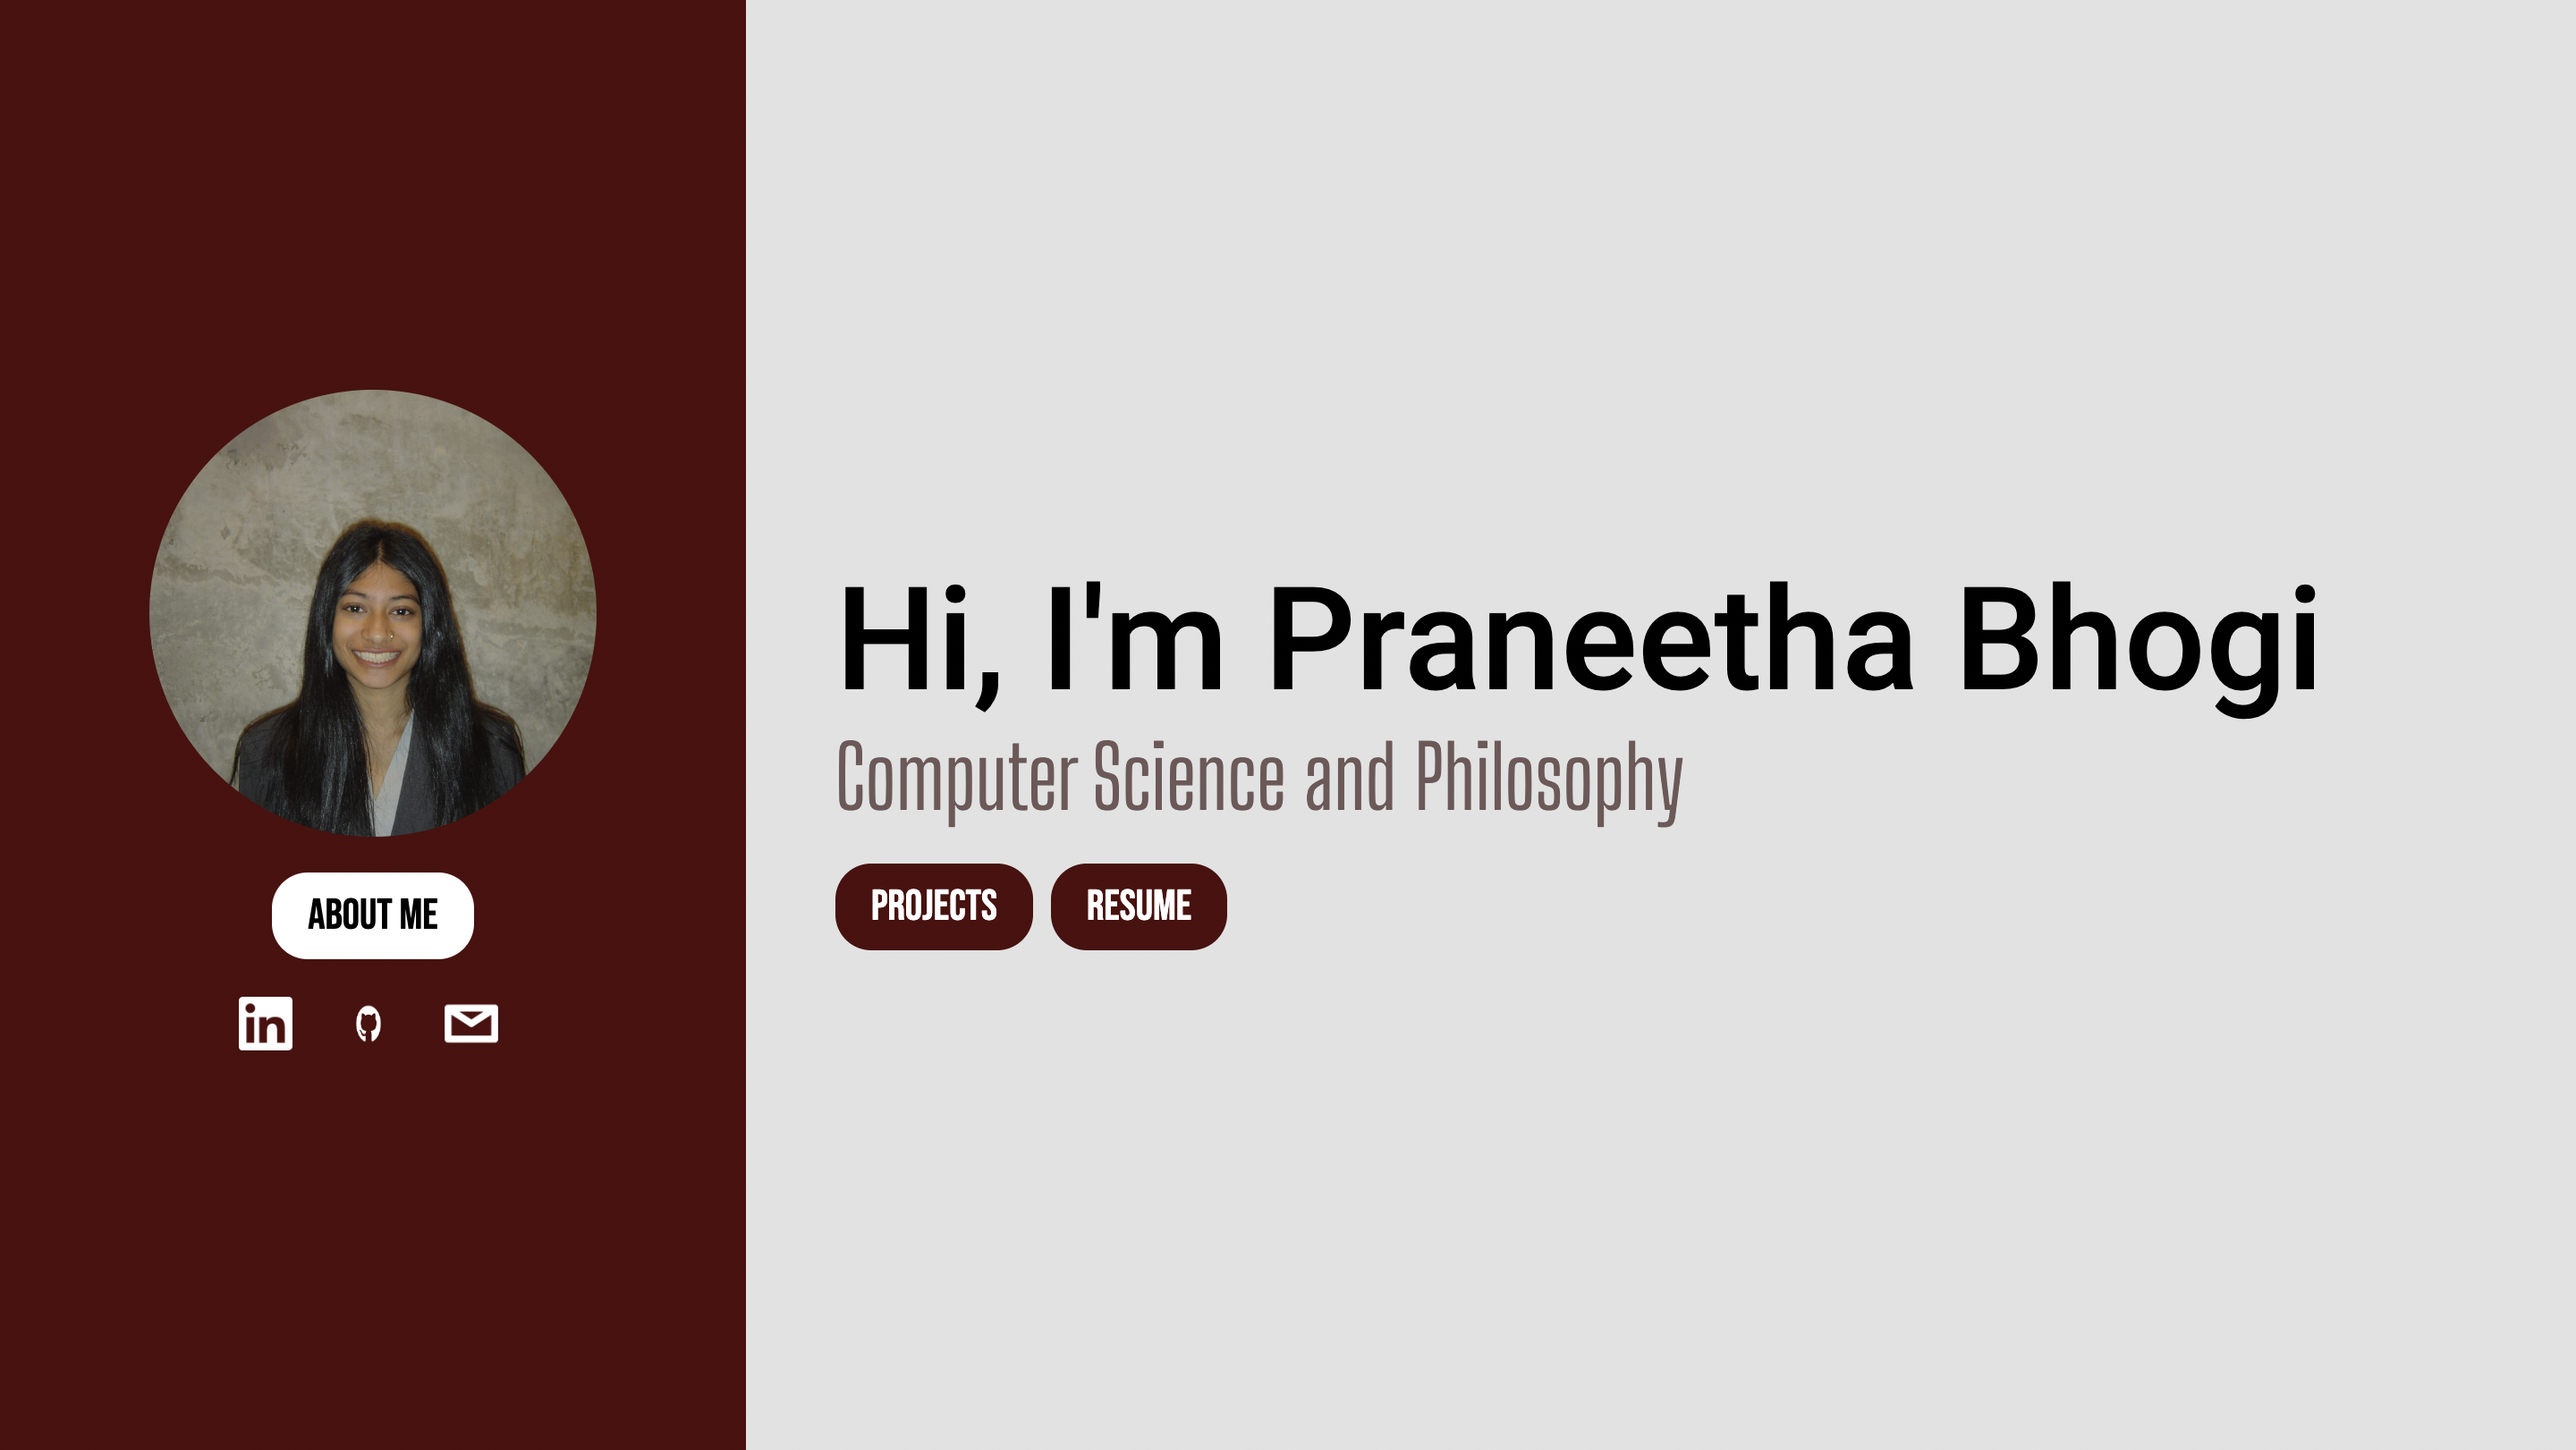
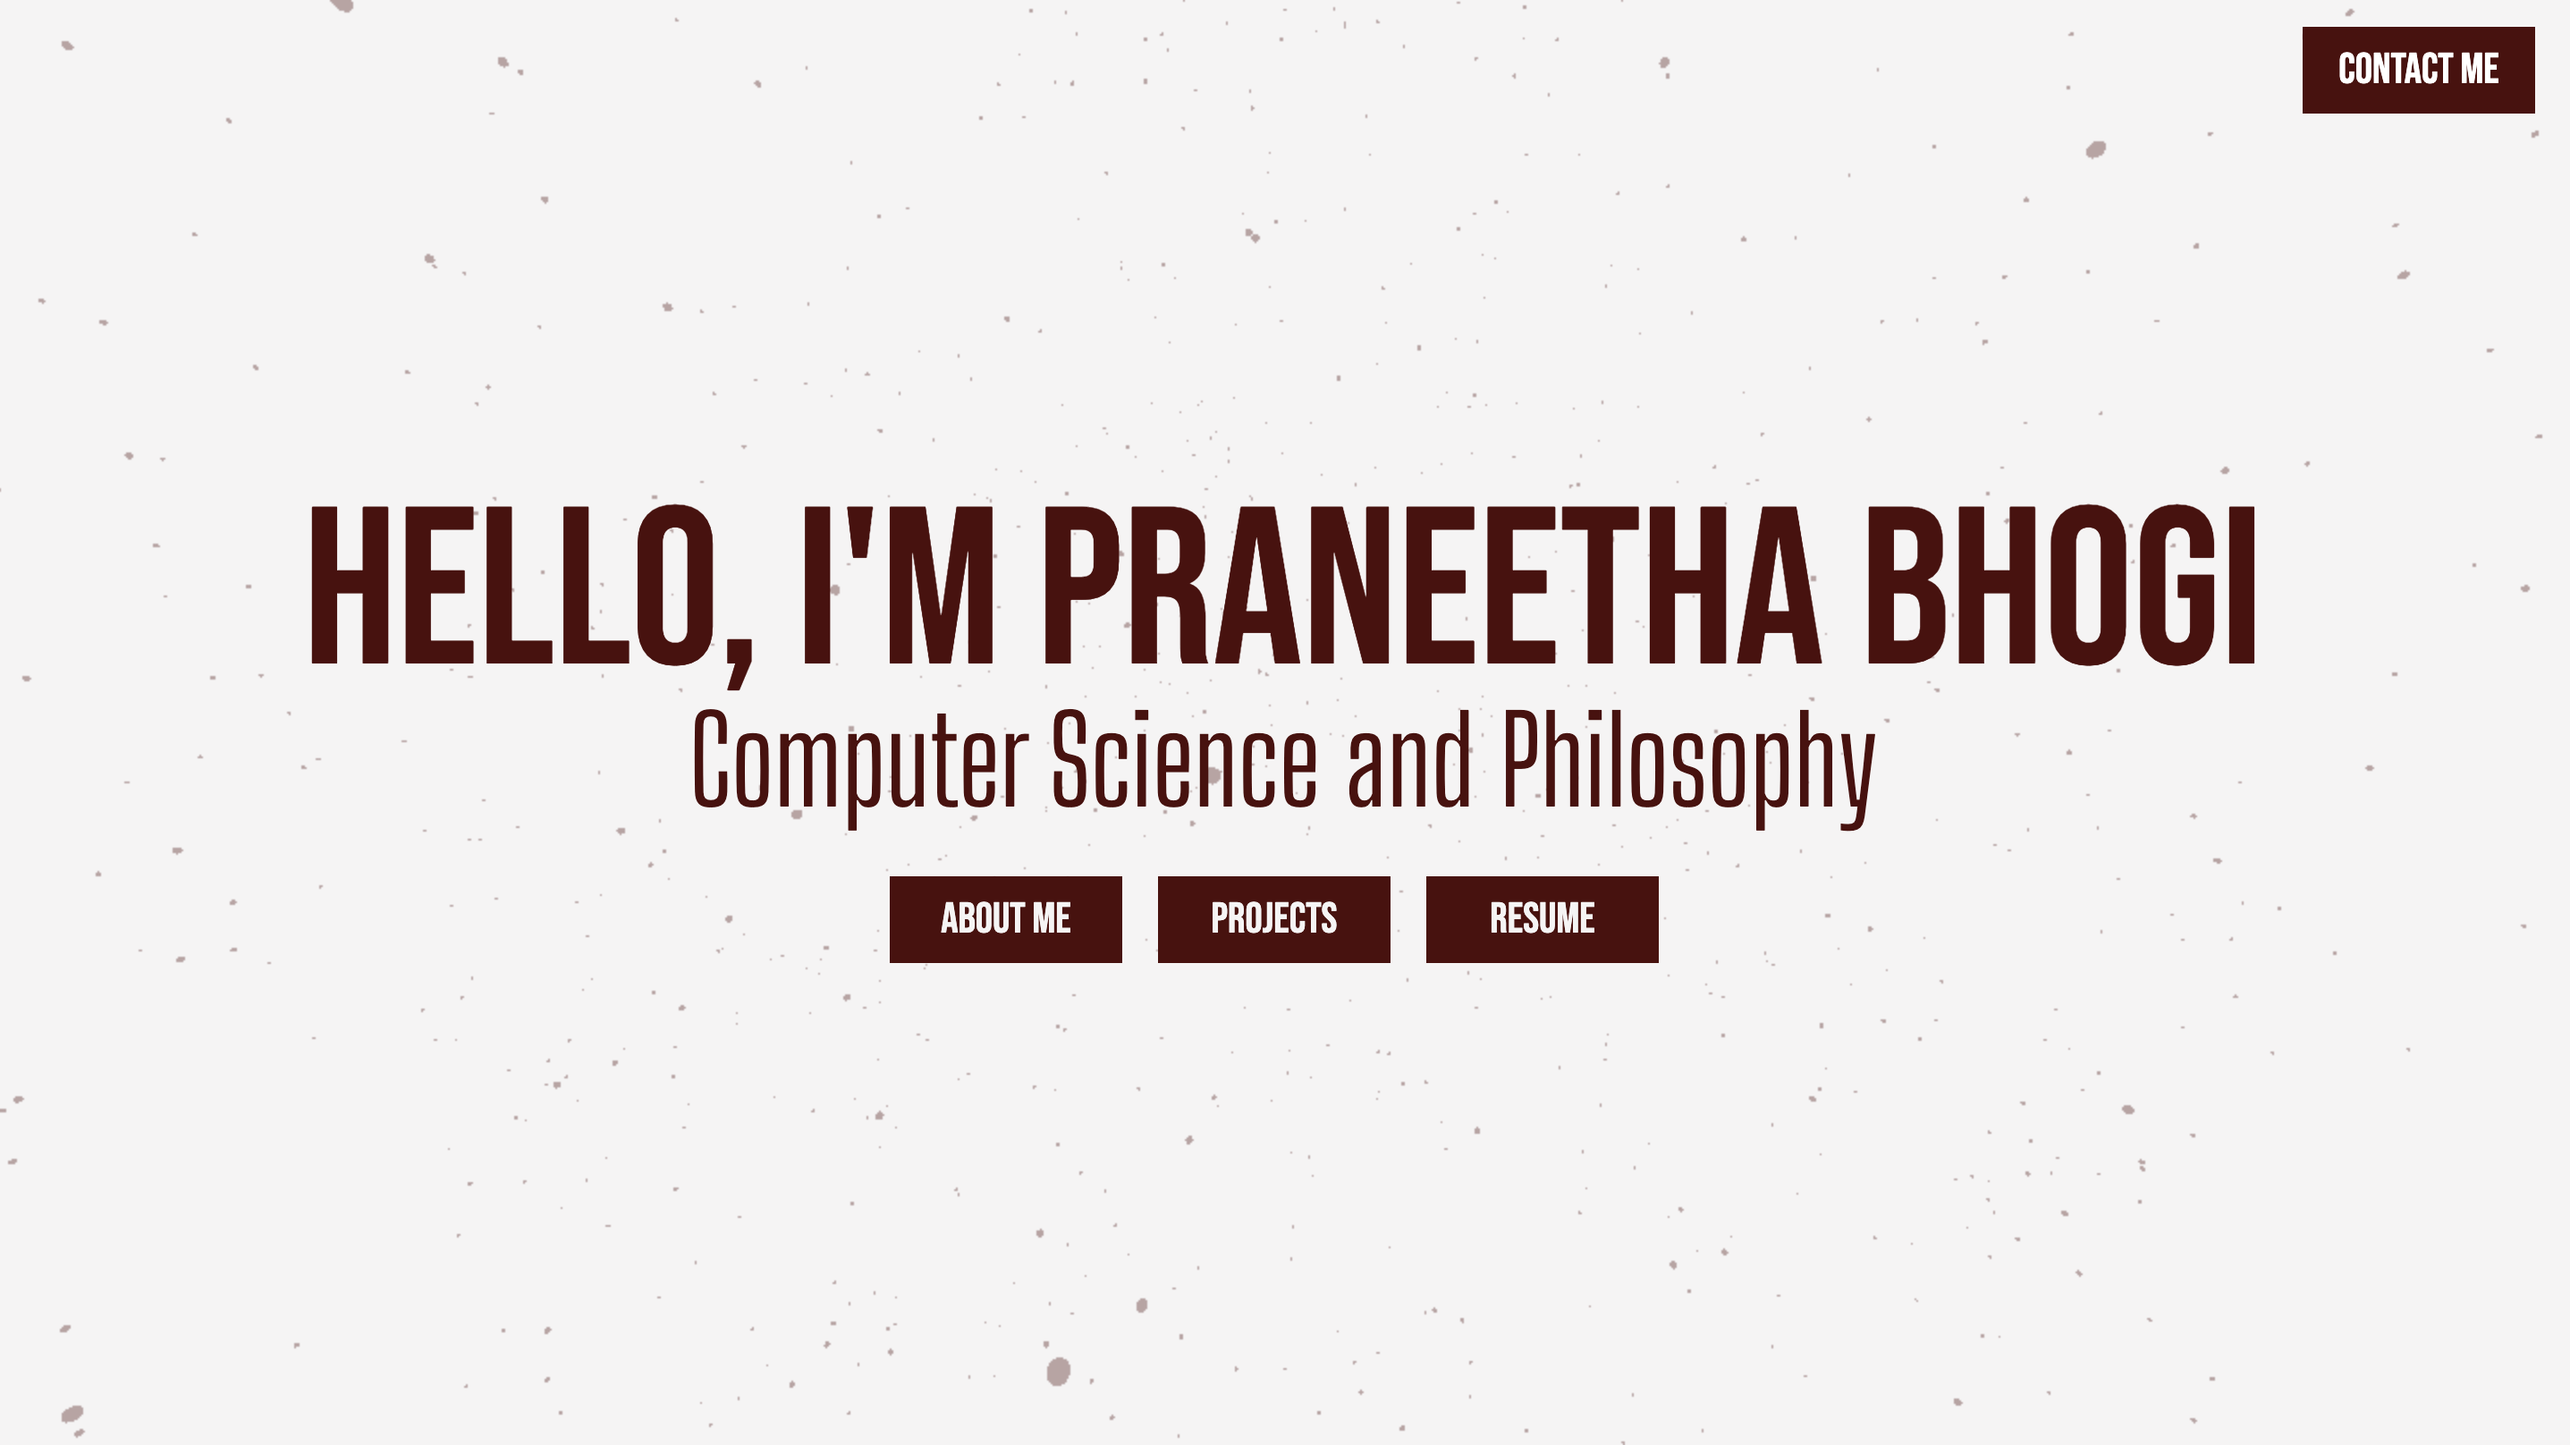
updated projects page formatting

diff --git a/projects.html b/projects.html
@@ -293,7 +293,7 @@
     </div>
     <div class="title-site" id="title-site">My Portfolio
         <p class="tech-details">
-            <em>App Development: HTML/CSS, JavaScript, VSCode, Git, Figma</em>
+            <em>App Development: HTML/CSS, JavaScript, Three.JS, VSCode, Git, Figma</em>
         </p>
         <div class="concept-details">
             <h2>Planning</h2>
@@ -305,30 +305,69 @@
             <ul>
                 <li><strong class="red-highlight">HTML:</strong> Provided the structure of the web pages, including elements such as webpage layout, interactive images, etc.</li>
                 <li><strong class="red-highlight">CSS:</strong> Applied styles to HTML elements, including colors, fonts, and responsive design.</li>
-                <li><strong class="red-highlight">JavaScript:</strong> Implemented custom functionalities and transitions to add interactivity and dynamic behavior to the website.</li>
+                <li><strong class="red-highlight">JavaScript + Three.JS:</strong> Implemented custom functionalities and transitions to add interactivity and dynamic behavior to the website.</li>
             </ul>
             <h2>Home Page</h2>
             <ul>
-                <li><strong class="red-highlight">HTML/CSS:</strong> Uses basic design elements to transform the mockup into an interactive webpage, with cursor functionalities, image-to-button conversions, and a clear color scheme. </li>
-                <li><strong class="red-highlight">JS:</strong> Made an avatar using digital art tools. Using JavaScript, implemented cursor functionalities, such as eyes that move in the direction of the cursor and text that changes depending on what button the cursor is currently on.</li>
+                <li><strong class="red-highlight">HTML/CSS:</strong> Uses basic design elements to transform the mockup into an interactive webpage, with cursor functionalities, drop-down functionalities, and a clear color scheme. </li>
+                <li><strong class="red-highlight">Three.JS:</strong> Implemented a dynamic animation of particles using Three.js. The scene features a rotating group of 1500 semi-transparent spheres, creating a visually engaging but simple background effect. </li>
+                <li><strong class="red-highlight">Mock-up vs. Actual:</strong> Because of the inclusion of the background animation, I chose to simplify the layout and design elements to ensure that viewers are not overwhelmed. The final design prioritizes a cleaner look to complement the dynamic background to maintain readability and the user's experience.</li>
                 <li><strong class="red-highlight">To-do:</strong> make the home page more professional and eye-catching by adding interactive hover functionalities using JS.</li>
             </ul>
-            <p>Figma mockup: </p>
-            <img src="images/HP mockup.png" alt="homepage mockup" style="display: block; margin: 10px 0; width: 550px; height: auto;">
-            <p>Actual: </p>
-            <img src="images/actual_hp.png" alt="homepage actual" style="display: block; margin: 10px 0; width: 550px; height: auto;">
+            <div class="image-comparison">
+                <div class="image-container">
+                    <p><strong>Figma Mockup:</strong></p>
+                    <img src="images/HP mockup.png" alt="Homepage mockup">
+                </div>
+                <div class="image-container">
+                    <p><strong>Actual:</strong></p>
+                    <img src="images/HP actual.png" alt="Homepage actual">
+                </div>
+            </div>
+            
             <h2>About Page</h2>
             <ul>
                 <li>To ensure a smooth transition from page #1 to page #2 (and page #2 to page #3), I integrated JavaScript seamlessly into the HTML files. This implementation enables sliding-out and fading-out transitions, enhancing the user experience with fluid navigation. These transitions not only provide a visually appealing pathway to the next page but also ensure that the shift between pages with contrasting colors remains gentle and easy on the eyes.</li>
             </ul>
-            <p>Figma mockup: </p>
-            <img src="images/SWE mockup.png" alt="swe actual" style="display: block; margin: 10px 0; width: 550px; height: auto;">
-            <img src="images/PHIL mockup.png" alt="phil actual" style="display: block; margin: 10px 0; width: 550px; height: auto;">
+            <!-- <p>Figma mockup: </p>
+            <img src="images/SWE mockup.png" alt="swe mockup" style="display: block; margin: 10px 0; width: 550px; height: auto;">
+            <img src="images/PHIL mockup.png" alt="phil mockup" style="display: block; margin: 10px 0; width: 550px; height: auto;">
             <img src="images/about mockup.png" alt="about mockup" style="display: block; margin: 10px 0; width: 550px; height: auto;">
             <p>Actual: </p>
             <img src="images/SWE actual.png" alt="swe actual" style="display: block; margin: 10px 0; width: 550px; height: auto;">
             <img src="images/PHIL actual.png" alt="phil actual" style="display: block; margin: 10px 0; width: 550px; height: auto;">
-            <img src="images/about actual.png" alt="about actual" style="display: block; margin: 10px 0; width: 550px; height: auto;">
+            <img src="images/about actual.png" alt="about actual" style="display: block; margin: 10px 0; width: 550px; height: auto;"> -->
+
+            <div class="image-comparison">
+                <div class="image-container">
+                    <p><strong>Figma Mockup:</strong></p>
+                    <img src="images/SWE mockup.png" alt="swe mockup">
+                    <img src="images/PHIL mockup.png" alt="phil mockup">
+                </div>
+                <div class="image-container">
+                    <p><strong>Actual:</strong></p>
+                    <img src="images/SWE actual.png" alt="swe actual">
+                    <img src="images/PHIL actual.png" alt="phil actual">
+                </div>
+            </div>
+
+            <ul>
+                <li>While the original mockup of the "About" section was initially much simpler, I wanted to incorporate my personality into this section to emphasize the information provided about myself. The silhouette showcases a blend of design skills while also representing two of my interests in my fields of study: the philosophic study of the mind and the use of neural networks in ML. </li>
+                <li>I also chose to images to represent my technical skills rather than simply listing them in tables. This approach is more visually appealing and faster to digest the breadth of my knowledge.</li>
+            </ul>
+
+            <div class="image-comparison">
+                <div class="image-container">
+                    <p><strong>Figma Mockup:</strong></p>
+                    <img src="images/about mockup.png" alt="about mockup" class="large-image">
+                </div>
+                <div class="image-container">
+                    <p><strong>Actual:</strong></p>
+                    <img src="images/about actual1.png" alt="about actual 1">
+                    <img src="images/about actual2.png" alt="about actual 2">
+                </div>
+            </div>
+            
             <h2>Project Page</h2>
             <ul>
                 <li>This page showcases different projects, each with its own description and implementation details. Each project is presented with an image and a brief overview, and clicking on it scrolls to the corresponding details. The page incorporates smooth scrolling functionality using JavaScript to enhance the user experience. Additionally, the design employs CSS for styling and layout, ensuring a visually appealing presentation.</li>

diff --git a/styles/style.css b/styles/style.css
@@ -68,3 +68,53 @@ button:hover {
     background-color: #290303;
     color: #F5F4F4;
 }
+
+.dropbtn {
+    background-color: #4E0C0C;
+    color: white;
+    font-size: 24px;
+    padding: 10px 20px;
+    border: none;
+    cursor: pointer;
+    position: fixed;
+    top: 20px;
+    right: 20px;
+}
+
+.dropdown {
+    top: 20px;
+    right: 20px;
+    position: fixed;
+    display: inline-block;
+}
+
+.dropdown-content {
+    display: none;
+    position: absolute;
+    top: 100%;
+    right: 0;
+    background-color: #4E0C0C;
+    min-width: 160px;
+    box-shadow: 0px 8px 16px 0px rgba(0,0,0,0.2);
+    z-index: 1;
+    font-family: 'Big Shoulders Display', cursive;
+}
+
+.dropdown-content a {
+    color: white;
+    padding: 12px 16px;
+    text-decoration: none;
+    display: block;
+}
+
+.dropdown-content a:hover {
+    background-color: #290303;
+}
+
+.dropdown:hover .dropdown-content {
+    display: block;
+}
+
+.dropdown:hover .dropbtn {
+    background-color: #290303;
+}

diff --git a/index.html b/index.html
@@ -19,6 +19,15 @@
         <button class="resume" onclick="window.location.href='documents/resume.pdf'">Resume</button>
     </div>
 
+    <div class="dropdown">
+        <button class="dropbtn">Contact Me</button>
+        <div class="dropdown-content">
+            <a href="mailto:bhogipraneetha@gmail.com" target="_blank">Email</a>
+            <a href="https://github.com/praneethabhogi" target="_blank">GitHub</a>
+            <a href="https://www.linkedin.com/in/praneetha-bhogi-1a6193228/" target="_blank">LinkedIn</a>
+        </div>
+    </div>
+
     <script>
         const scene = new THREE.Scene();
         const camera = new THREE.PerspectiveCamera(75, window.innerWidth / window.innerHeight, 0.1, 1000);

diff --git a/styles/projects.css b/styles/projects.css
@@ -217,3 +217,39 @@ h1 {
     border-radius: 5px;
     color: rgb(0, 0, 0);
 }
+
+.image-comparison {
+    display: flex;
+    justify-content: space-between;
+    gap: 20px;
+    margin-top: 20px;
+}
+
+.image-container {
+    flex: 1;
+    text-align: center;
+    position: relative;
+}
+
+.image-container p {
+    margin-bottom: 10px;
+    font-weight: bold;
+}
+
+.image-container img {
+    max-width: 100%;
+    height: auto;
+    max-height: 300px;
+    border: 2px solid #dddddd;
+    border-radius: 5px;
+}
+
+.large-image {
+    border: 1px solid #dddddd;
+    transform: scale(2); 
+    transform-origin: top left;
+    max-width: none;
+    max-height: none;
+    position: absolute;
+    left: -0.01px;
+}
